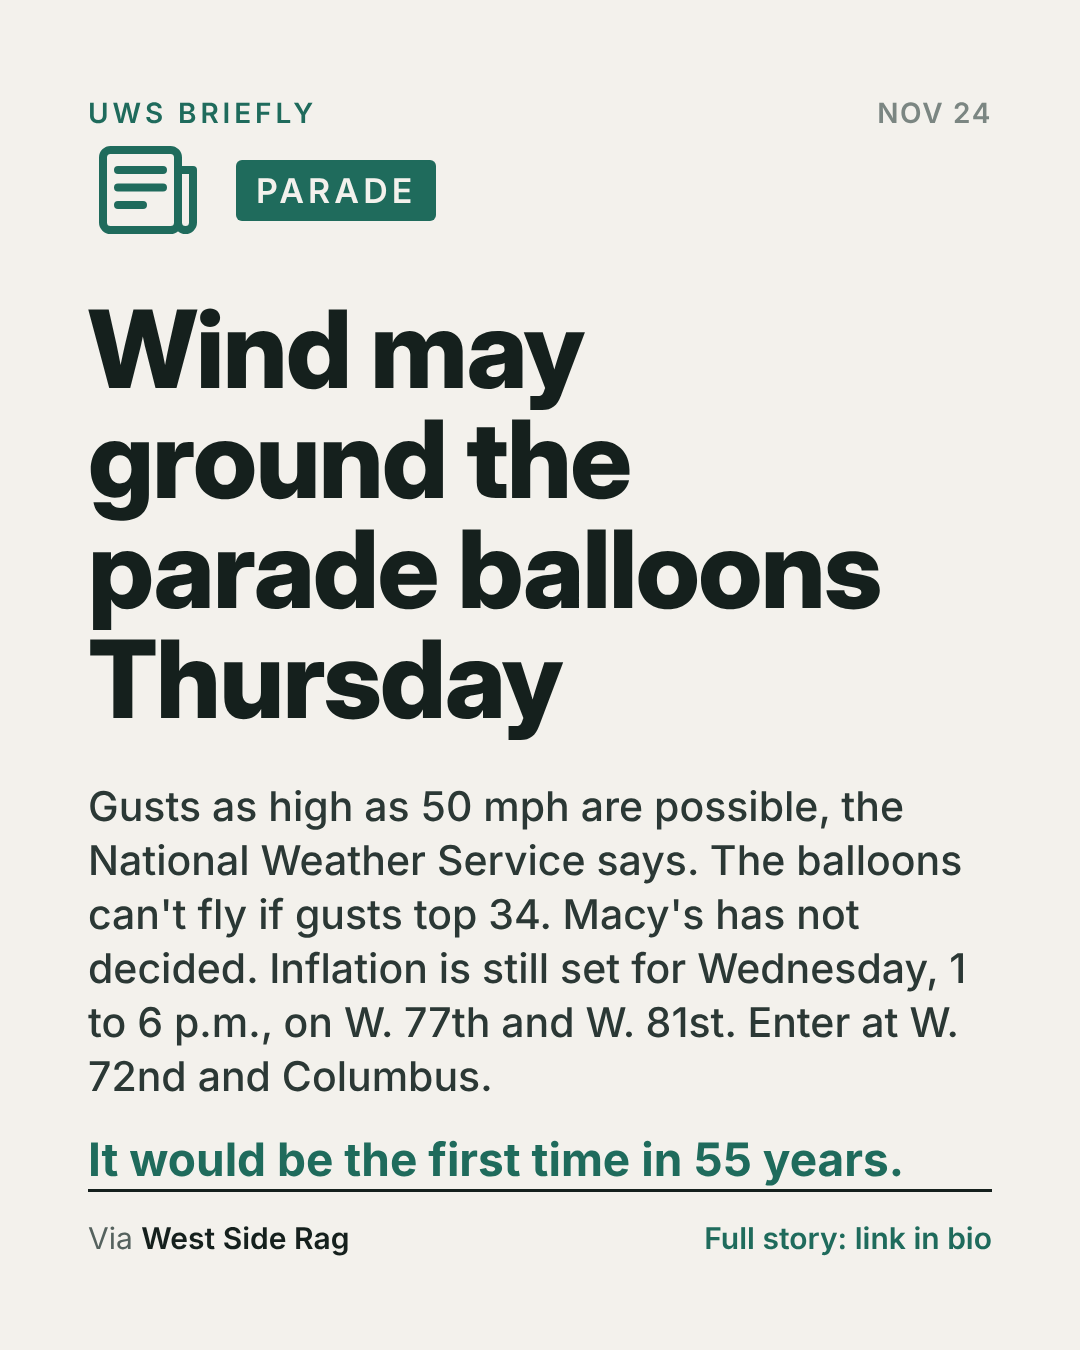
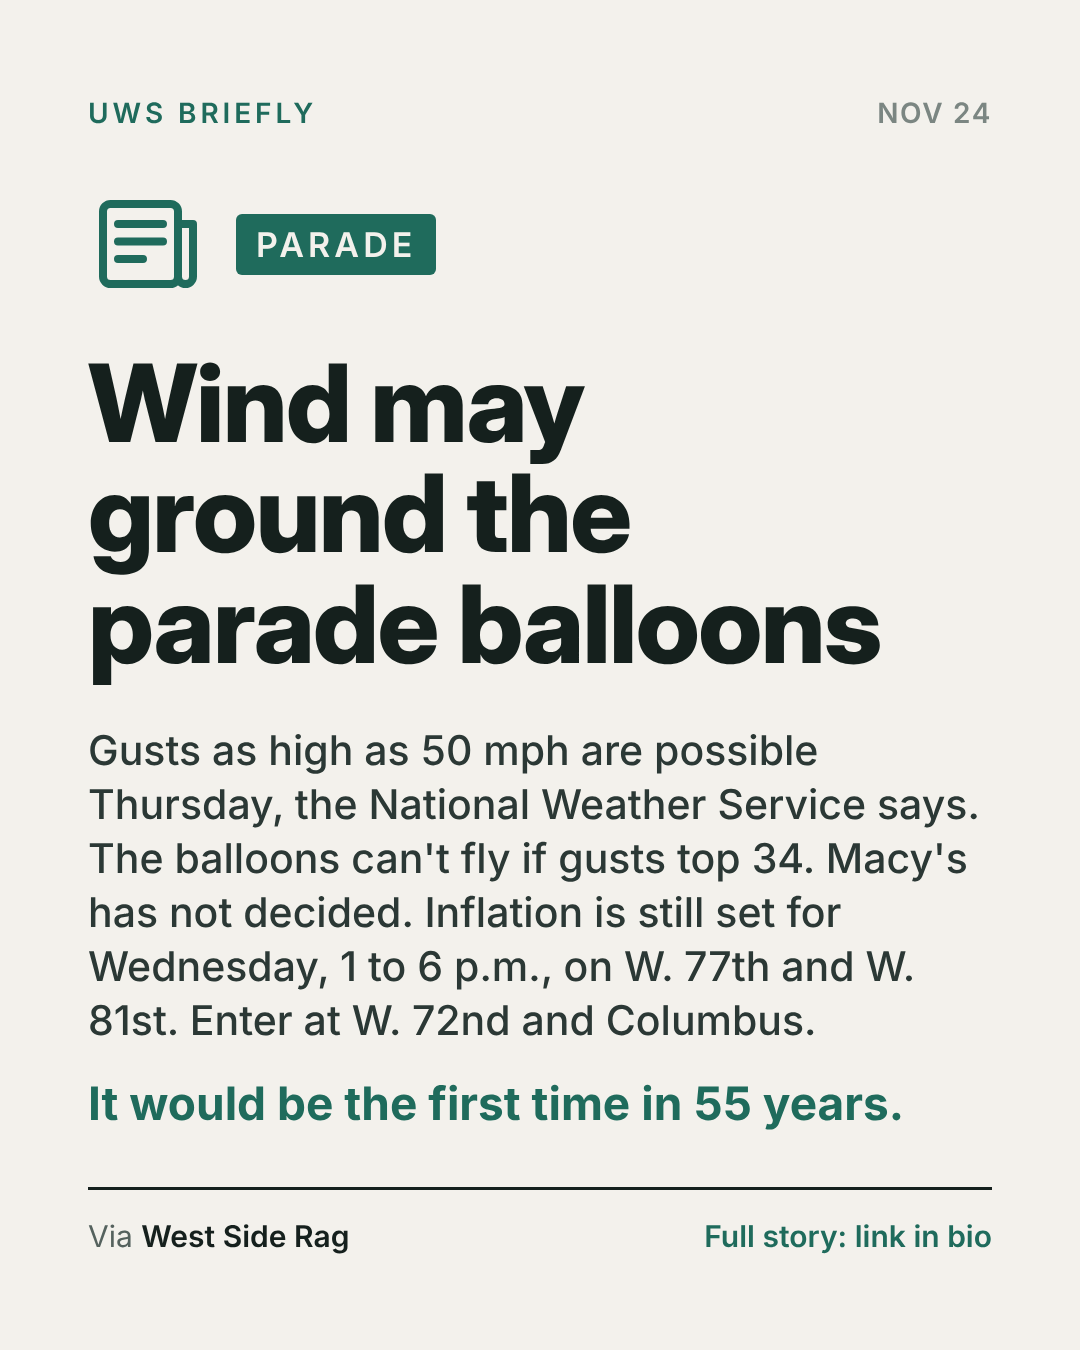
Parade card: shorter headline so nothing is crowded; tighter headline sizing
Claude-Session: https://claude.ai/code/session_012hoGa7znvUsmkGfQAmLETD

Changed region(s): [[0.0611, 0.0933, 0.9167, 0.9333], [0.0917, 0.9022, 0.3361, 0.9333], [0.6417, 0.9022, 0.6722, 0.9333]]

diff --git a/tools/card.js b/tools/card.js
@@ -23,7 +23,7 @@ const ICONS = [
   [/.*/, '<rect x="3" y="4" width="15" height="16" rx="1.5"/><path d="M18 8h3v10.5a1.5 1.5 0 0 1-3 0M6 8h9M6 11.5h9M6 15h5"/>'],
 ];
 const icon = l => ICONS.find(([re]) => re.test(l.toLowerCase()))[1];
-const size = head.length > 44 ? 92 : head.length > 30 ? 108 : 124;
+const size = head.length > 36 ? 92 : head.length > 26 ? 108 : 124;
 const bsize = text.length > 260 ? 38 : text.length > 210 ? 41 : 44;
 const html = `<!doctype html><html><head><meta charset="utf-8"><style>
 * { box-sizing: border-box; margin: 0; }
